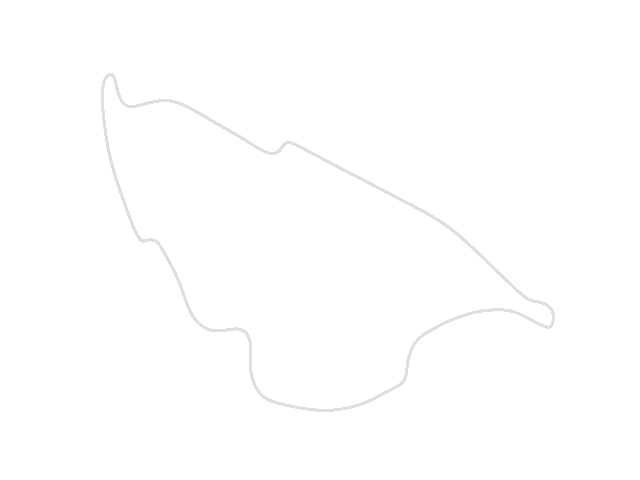
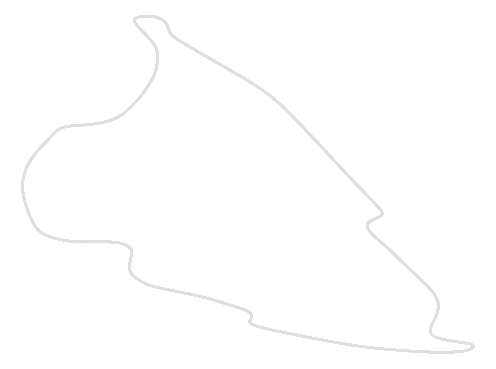
Added final track maps

diff --git a/data/maps.py b/data/maps.py
@@ -5,6 +5,8 @@ import json
 
 year = 2023
 session = "qualifying"
+my_dpi=96
+FIG_X,FIG_Y = 630,480
 
 headers={
     "apikey": "t3DrvCuXvjDX8nIvPpcSNTbB9kae1DPs",
@@ -12,6 +14,8 @@ headers={
 }
 
 url = "https://api.formula1.com/v1/editorial-eventlisting/events?season="+str(year)
+
+####################################################################################
 
 content=requests.get(url=url,headers=headers)
 events=content.json() 
@@ -60,29 +64,30 @@ for grand_prix in all_grand_prix:
   }
 
 MAPS = {}
-#{
-#  "Brazil_23":
-#    {
-#      "corners":  "Brazil_23.json",
-#      "map"    :  "Brazil_23_plot.png",
-my_dpi=96
+
 for event,positions in maps.items():
-  plt.figure(figsize=(640/my_dpi, 480/my_dpi), dpi=my_dpi)
-  plt_name=event+"_"+str(year)+"_plot.png"
+  plt.figure(figsize=(FIG_X/my_dpi, FIG_Y/my_dpi), dpi=my_dpi)
+  plt_name="data/"+event+"_"+str(year)+"_plot.png"
   fig,ax=plt.subplots()
   x=positions["X"]
   y=positions["Y"]
   #plt.gca().invert_yaxis()"
-  ax.plot(y,x,c="grey",alpha=0.25)
+  ax.plot(x,y,c="grey",alpha=0.25)
+  #x_len=ax.axes.get
   ax.axis("off")
   #plt.show()
-  plt.savefig(plt_name, transparent=True)
-  plt.close()
+
   MAPS[event]={
     "map":event+"_"+str(year)+"_plot.png",
+    "xlim": ax.axes.get_xlim(),
+    "ylim": ax.axes.get_ylim(),
+    "xscale" : (ax.axes.get_xlim()[1] - ax.axes.get_xlim()[0])/FIG_X,
+    "yscale" : (ax.axes.get_ylim()[1] - ax.axes.get_ylim()[0])/FIG_Y,  
     "corners": [],
     "marshallSectors": []
   }
+  plt.savefig(plt_name, transparent=True,bbox_inches='tight', pad_inches = 0)
+  plt.close()
   
 with open("MAPS.json","w") as fp:
   json.dump(MAPS,fp=fp,indent=3)
